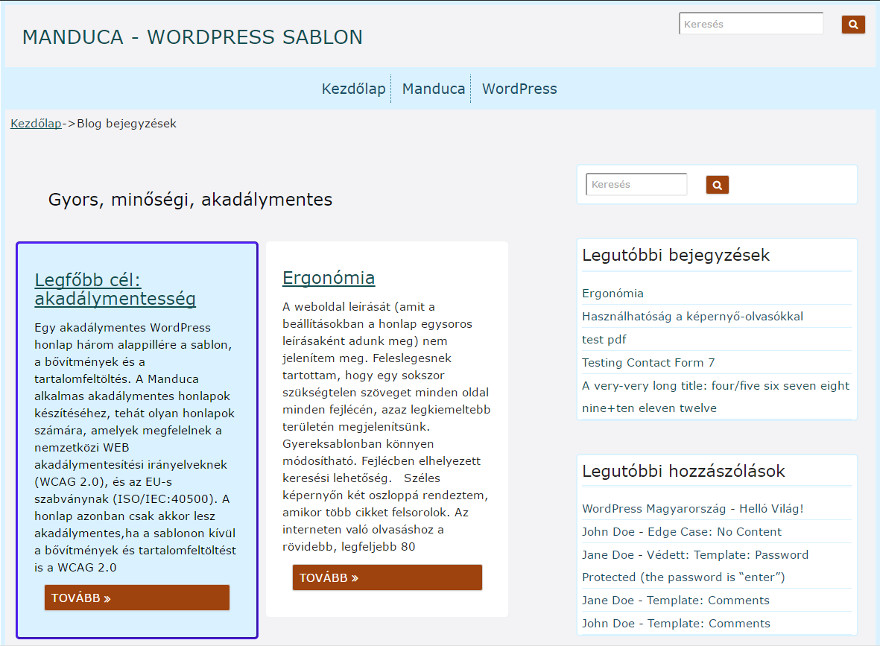
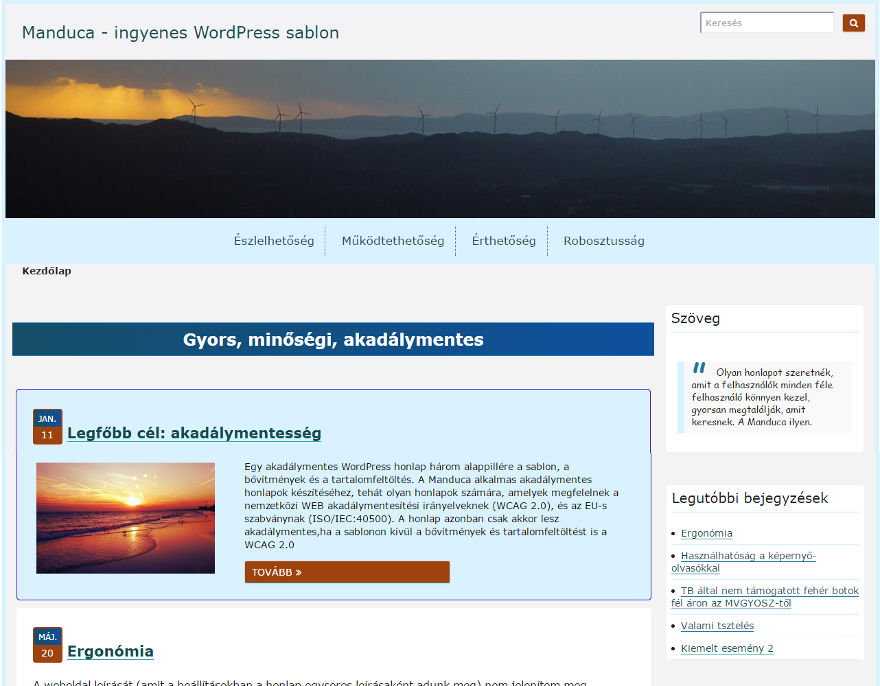
commit 16.5.11 =  ver 16.5
==validation==
-check with validator checker
-delete itemprop values
-delete unnecessary WAI-ARIA
==responsivie design==
-correct margins
-refresh screenshot,
-new: screenshot for moblie

diff --git a/manduca/style.css b/manduca/style.css
@@ -732,8 +732,7 @@ body .site{
 	padding: 0 0.214rem;
 }
 .searchform{
-	float: none;
-	margin: 0 auto;
+	text-align: center;
 }
 
 .search-form label{
@@ -746,7 +745,9 @@ body .site{
 	position: absolute !important;
 	clip: rect(1px, 1px, 1px, 1px);	
 }
-
+.breadcrumb {
+	margin-left: 24px;
+}
 
 /* Navigation Menu */
 
@@ -755,6 +756,11 @@ body .site{
 	text-align: left;
 	padding: 5%;
 	background-color: #daf2ff;
+}
+
+.menu-toggle {
+	display: block;
+	margin: 5px auto;
 }
 
 .site-header-menu.toggled-on,
@@ -985,7 +991,8 @@ section[role="banner"] {
 }
 
 .excerpt-header .content-date {
-	top: -73px;
+	top: -78px;
+	top: -5.571rem;
 }
 
 .content-date span {
@@ -1099,16 +1106,17 @@ comments-link a:hover,
 .entry-content h1 { 
 	font-size: 24px;
 	font-size: 1.714rem;
-	line-height: 1.2;
-	font-weight: 500;
 	margin: 24px 0;
 	margin: 1.714rem 0;
 	color: #080B10;
 }
 
-.single .entry-title {
+.single .entry-title,
+.excerpt-header .entry-title {
 	text-align: left;
-	
+	font-size: 21px;
+	font-size: 1.5rem;
+	margin-left: 50px;
 }
 .page-header .page-title,
 .archive-title,
@@ -1815,7 +1823,7 @@ a.comment-edit-link:hover {
 	.entry-title {
 		font-size: 21px;
 		font-size: 1.5rem;
-		margin-left: 75px;
+		margin-left: 50px;
 	}
 	.entry-header .content-date {
 		padding-right: 0;
@@ -2064,6 +2072,9 @@ open the toggle boxes*/
 		top: 0;
 		right: 0;
 	}
+	.breadcrumb {
+		margin-left: 0;
+	}
 	/*wrapper*/
 	.wrapper
 	{
@@ -2110,6 +2121,12 @@ open the toggle boxes*/
 		font-size: 24px;
 		font-size: 1.714rem;
 	}
+    .single .entry-title,
+    .excerpt-header .entry-title {
+        margin-left: 72px;
+        margin-left: 5.142rem;
+    }
+
 	.entry-header .content-date {
 		padding-right: 0;
 		width: 48px;

diff --git a/manduca/functions.php b/manduca/functions.php
@@ -127,7 +127,7 @@ function manduca_widgets_init() {
 		'name' =>__( 'Sidebar', 'manduca' ),
 		'id' => 'main_sidebar',
 		'description' => __( 'Appears all pages except when using full page template', 'manduca' ),
-		'before_widget' => '<section id="%1$s" class="widget %2$s" aria-labelledby="widget-title" role="region">',
+		'before_widget' => '<section id="%1$s" class="widget %2$s" aria-labelledby="secondary">',
 		'after_widget' => '</section>',
 		'before_title' => '<h4 class="widget-title">',
 		'after_title' =>'</h4>',
@@ -204,7 +204,7 @@ if ( ! function_exists( 'manduca_entry_meta' ) ) :
 	{	
 		$categories_list = get_the_category_list( ', ' );
 		$tag_list = get_the_tag_list( '', ', ' );	
-		$date = sprintf( '<a href="%1$s" title="%2$s" rel="bookmark"><abbr class="published" title="%3$s"><time class="entry-date" datetime="%3$s">%4$s</time itemprop="datePublished"></abbr></a>',
+		$date = sprintf( '<a href="%1$s" title="%2$s" rel="bookmark"><abbr class="published" title="%3$s"><time class="entry-date" datetime="%3$s">%4$s</time></abbr></a>',
 			esc_url( get_permalink() ),
 			esc_attr( get_the_time() ),
 			esc_attr( get_the_date( 'c' ) ),
@@ -217,13 +217,13 @@ if ( ! function_exists( 'manduca_entry_meta' ) ) :
 			$month = utf8_encode( strftime( '%b', get_post_time('U', true) ) );
 		}
 		
-		$date_wo_link = sprintf( '<p class="content-date"><time class="entry-date" itemprop="datePublished" datetime="%1$s"></time><span class="entry-date-month">%3$s</span><span class="entry-date-day">%2$s</span></p>',
+		$date_wo_link = sprintf( '<p class="content-date"><time class="entry-date" datetime="%1$s"></time><span class="entry-date-month">%3$s</span><span class="entry-date-day">%2$s</span></p>',
 			esc_attr( get_the_date( 'c' ) ),
 			esc_html( get_the_date( 'j' ) ),
 			$month
 		);
 	
-		$author = sprintf( '<span class="author vcard" itemprop="name"><a class="url fn n" href="%1$s" title="%2$s" rel="author">%3$s</a></span>',
+		$author = sprintf( '<span class="author vcard"><a class="url fn n" href="%1$s" title="%2$s" rel="author">%3$s</a></span>',
 			esc_url( get_author_posts_url( get_the_author_meta( 'ID' ) ) ),
 			esc_attr( sprintf( __( 'All posts by %s', ' manduca' ), get_the_author() ) ),
 			get_the_author()

diff --git a/manduca/content.php b/manduca/content.php
@@ -5,16 +5,16 @@
  * @since 1.0 */
 
 ?>		
-	<article id="post-<?php the_ID(); ?>" <?php post_class(); ?> itemscope="itemscope" itemtype="http://schema.org/BlogPosting" itemprop="blogPost" >
+	<article id="post-<?php the_ID(); ?>" <?php post_class(); ?>>
 		<header class="entry-header">
 				<?php if ( is_sticky() && is_home() && ! is_paged() ) : ?>
 					<div class="featured-post"><?php _e( 'Featured', 'manduca' ) ?></div>
 				<?php endif; ?>
 
 			<?php if ( is_single() ) : ?>
-				<h1 class="entry-title" itemprop="headline"><?php the_title(); ?></h1>
+				<h1 class="entry-title"><?php the_title(); ?></h1>
 				<?php else : ?>
-				<h2 class="entry-title"  itemprop="headline">
+				<h2 class="entry-title">
 					<a href="<?php the_permalink(); ?>" rel="bookmark"><?php the_title(); ?></a>
 				</h2>
 			<?php endif; // is_single() ?>
@@ -35,7 +35,7 @@
 			
 		</div><!-- .entry-summary -->
 		<?php else : ?>
-		<div class="entry-content" itemprop="text">
+		<div class="entry-content">
 			<?php the_content( __( 'Continue reading', 'manduca' ) .'<span class="screen-reader-text">  ' .get_the_title() .'</span><span class="meta-nav" aria-hidden="true">&rarr;</span>' ); ?>
 			<?php wp_link_pages( array( 'before' => '<div class="page-links">' . __( 'Paging', 'manduca' ), 'after' => '</div>' ) ); ?>
 		<div class="clearfix-content"></div>

diff --git a/manduca/index.php b/manduca/index.php
@@ -6,7 +6,7 @@
 
 get_header(); ?>
 	<section id="primary" class="site-content">
-		<main id="content" role="main" itemprop="mainContentOfPage" itemscope="itemscope" itemtype="http://schema.org/Blog">
+		<main id="content" role="main">
 		<?php if ( have_posts() ) : ?>
 
 			<?php /* Start the Loop */ ?>
@@ -18,12 +18,12 @@ get_header(); ?>
 
 		<?php else : ?>
 
-			<article id="post-0" class="post no-results not-found" itemscope="itemscope" itemtype="http://schema.org/BlogPosting" itemprop="blogPost">
+			<article id="post-0" class="post no-results not-found">
 
 			<?php if ( current_user_can( 'edit_posts' ) ) :
 			?>
 				<header class="entry-header">
-					<h1 class="entry-title" itemprop="headline" ><?php _e( 'No post', 'manduca' ) ?></h1>
+					<h1 class="entry-title"><?php _e( 'No post', 'manduca' ) ?></h1>
 				</header>
 
 				<div class="entry-content">
@@ -34,7 +34,7 @@ get_header(); ?>
 				
 			?>
 				<header class="entry-header">
-					<h1 class="entry-title" itemprop="headline"><?php _e( 'Nothing found', 'manduca' ) ?></h1>
+					<h1 class="entry-title"><?php _e( 'Nothing found', 'manduca' ) ?></h1>
 				</header>
 
 				<div class="entry-content">

diff --git a/manduca/home.php b/manduca/home.php
@@ -8,12 +8,12 @@ get_header(); ?>
 
 
 	<section id="primary" class="site-content">
-		<div id="content" role="main" itemprop="mainContentOfPage" itemscope="itemscope" itemtype="http://schema.org/Blog">
+		<div id="content" role="main">
 
 		<?php if ( have_posts() ) : ?>
 
 			<header class="page-header">
-				<h1 class="page-title" itemprop="headline"><?php bloginfo( 'description' ); ?></h1>
+				<h1 class="page-title"><?php bloginfo( 'description' ); ?></h1>
 			</header>
 
 			<?php manduca_display_excerpt() ?>
@@ -21,9 +21,9 @@ get_header(); ?>
 
 		<?php else : ?>
 
-			<article id="post-0" class="post no-results not-found"  itemscope="itemscope" itemtype="http://schema.org/BlogPosting" itemprop="blogPost" >
+			<article id="post-0" class="post no-results not-found">
 				<header class="entry-header">
-					<h2 class="entry-title" itemprop="headline" ><?php _e( 'No matching result found.', 'manduca' ) ?></h2>
+					<h2 class="entry-title"><?php _e( 'No matching result found.', 'manduca' ) ?></h2>
 				</header>
 
 				<div class="entry-content">

diff --git a/manduca/search.php b/manduca/search.php
@@ -7,7 +7,7 @@
 get_header(); ?>
 
 	<section id="primary" class="site-content">
-		<div id="content" role="main" itemprop="mainContentOfPage" itemscope="itemscope" itemtype="http://schema.org/Blog">
+		<div id="content" role="main">
 
 		<?php if ( have_posts() ) : ?>
 
@@ -31,9 +31,9 @@ get_header(); ?>
 
 		<?php else : ?>
 
-			<article id="post-0" class="post no-results not-found"  itemscope="itemscope" itemtype="http://schema.org/BlogPosting" itemprop="blogPost" >
+			<article id="post-0" class="post no-results not-found">
 				<header class="entry-header">
-					<h2 class="entry-title" itemprop="headline" ><?php _e( 'No matching result found.', 'manduca' ) ?></h2>
+					<h2 class="entry-title"><?php _e( 'No matching result found.', 'manduca' ) ?></h2>
 				</header>
 
 				<div class="entry-content">

diff --git a/manduca/image.php b/manduca/image.php
@@ -7,13 +7,13 @@
 get_header(); ?>
 
 	<div id="primary" class="site-content">
-		<div id="content" role="main" itemprop="mainContentOfPage" itemscope="itemscope" itemtype="http://schema.org/Blog">
+		<div id="content" role="main">
 
 		<?php while ( have_posts() ) : the_post(); ?>
 
-				<article id="post-<?php the_ID(); ?>" <?php post_class( 'image-attachment' ); ?> itemscope="itemscope" itemtype="http://schema.org/BlogPosting" itemprop="blogPost" >
+				<article id="post-<?php the_ID(); ?>" <?php post_class( 'image-attachment' ); ?>>
 					<header class="entry-header">
-						<h1 class="entry-title"  itemprop="headline" ><?php the_title(); ?></h1>
+						<h1 class="entry-title" ><?php the_title(); ?></h1>
 
 						<footer class="entry-meta">
 							<?php

diff --git a/manduca/author.php b/manduca/author.php
@@ -7,7 +7,7 @@
 get_header(); ?>
 
 	<section id="primary" class="site-content">
-		<div id="content" role="main"itemprop="mainContentOfPage" itemscope="itemscope" itemtype="http://schema.org/Blog">
+		<div id="content" role="main">
 
 		<?php if ( have_posts() ) : ?>
 
@@ -29,7 +29,7 @@ get_header(); ?>
 			<?php
 			$author_description = get_the_author_meta( 'description' );
 			if ( ! empty ( $author_description ) ) : ?>
-			<div class="author-info" itemscope="itemscope" itemtype="http://schema.org/Person" itemprop="author">
+			<div class="author-info">
 				<div class="author-avatar">
 					<?php
 					$author_bio_avatar_size = apply_filters( 'manduca_author_bio_avatar_size', 68 );

diff --git a/manduca/404.php b/manduca/404.php
@@ -9,11 +9,11 @@
 get_header(); ?>
 
 	<div id="primary" class="site-content">
-		<div id="content" role="main" itemprop="mainContentOfPage" itemscope="itemscope" itemtype="http://schema.org/Blog">
+		<div id="content" role="main" >
 
-			<article id="post-0" class="post error404 no-results not-found"  itemscope="itemscope" itemtype="http://schema.org/BlogPosting" itemprop="blogPost" >
+			<article id="post-0" class="post error404 no-results not-found">
 				<header class="entry-header">
-					<h1 class="entry-title" itemprop="headline">
+					<h1 class="entry-title">
 						<?php _e( 'Error 404 &#45; Page Not Found!', 'manduca' ); ?>
 					</h1>
 					

diff --git a/manduca/category.php b/manduca/category.php
@@ -6,11 +6,11 @@
 
 get_header(); ?>
 	<section id="primary" class="site-content">
-		<div id="content" role="main" itemprop="mainContentOfPage" itemscope="itemscope" itemtype="http://schema.org/Blog">
+		<div id="content" role="main">
 
 		<?php if ( have_posts() ) : ?>
 			<header class="archive-header">
-				<h1 class="archive-title" itemprop="headline" ><span><?php echo single_cat_title( '', false ); ?></span></h1>
+				<h1 class="archive-title"><span><?php echo single_cat_title( '', false ); ?></span></h1>
 
 
 			<?php

diff --git a/manduca/content-page.php b/manduca/content-page.php
@@ -6,9 +6,9 @@
  
 ?>
 
-	<article id="post-<?php the_ID(); ?>" <?php post_class(); ?> itemscope="itemscope" itemtype="http://schema.org/BlogPosting" itemprop="blogPost" >
+	<article id="post-<?php the_ID(); ?>" <?php post_class(); ?>>
 		<header class="entry-header">
-			<h1 class="entry-title"  itemprop="headline" ><?php the_title(); ?></h1>
+			<h1 class="entry-title" ><?php the_title(); ?></h1>
 			
 		</header>
 

diff --git a/manduca/single.php b/manduca/single.php
@@ -16,7 +16,7 @@ get_header(); ?>
 						<?php next_post_link( '%link', '<span>%title</span><i class="fa fa-angle-double-right"></i>' ); ?>
 					</div>
 			</nav><!-- .nav-single -->
-		<div id="content" role="main" itemprop="mainContentOfPage" itemscope="itemscope" itemtype="http://schema.org/Blog">
+		<div id="content" role="main">
 
 			<?php while ( have_posts() ) : the_post(); ?>
 
